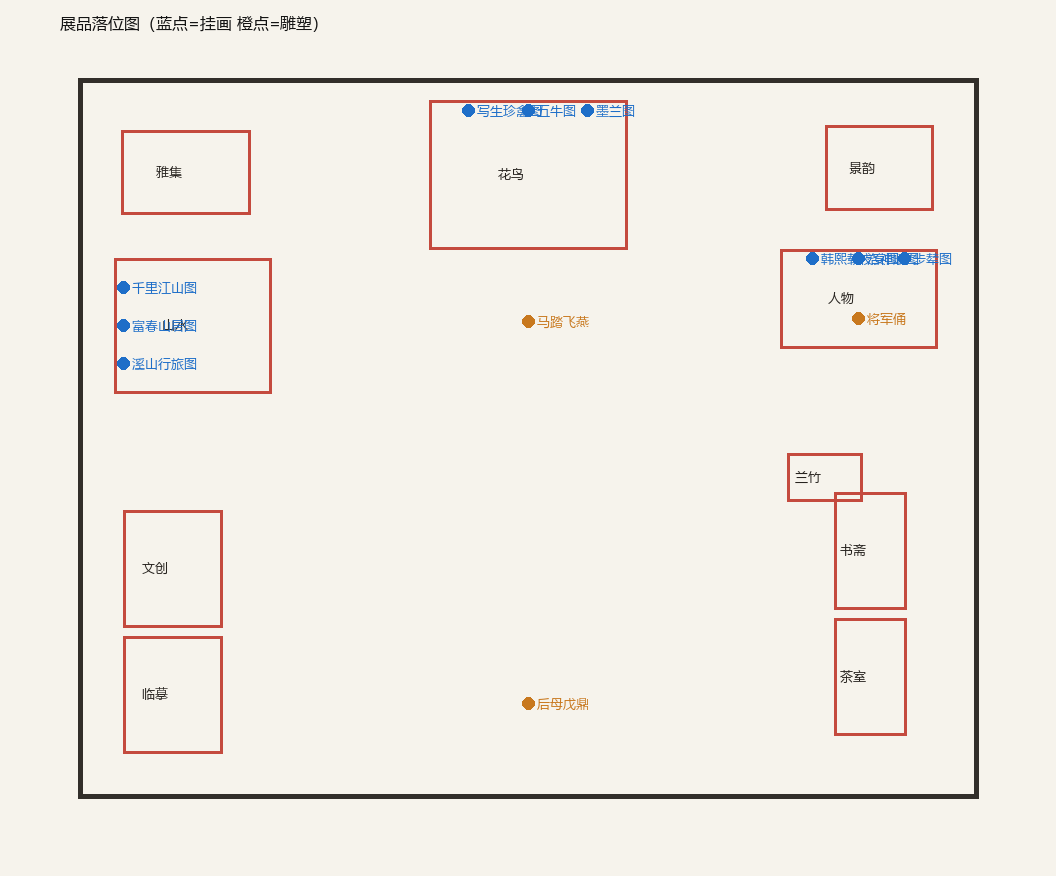
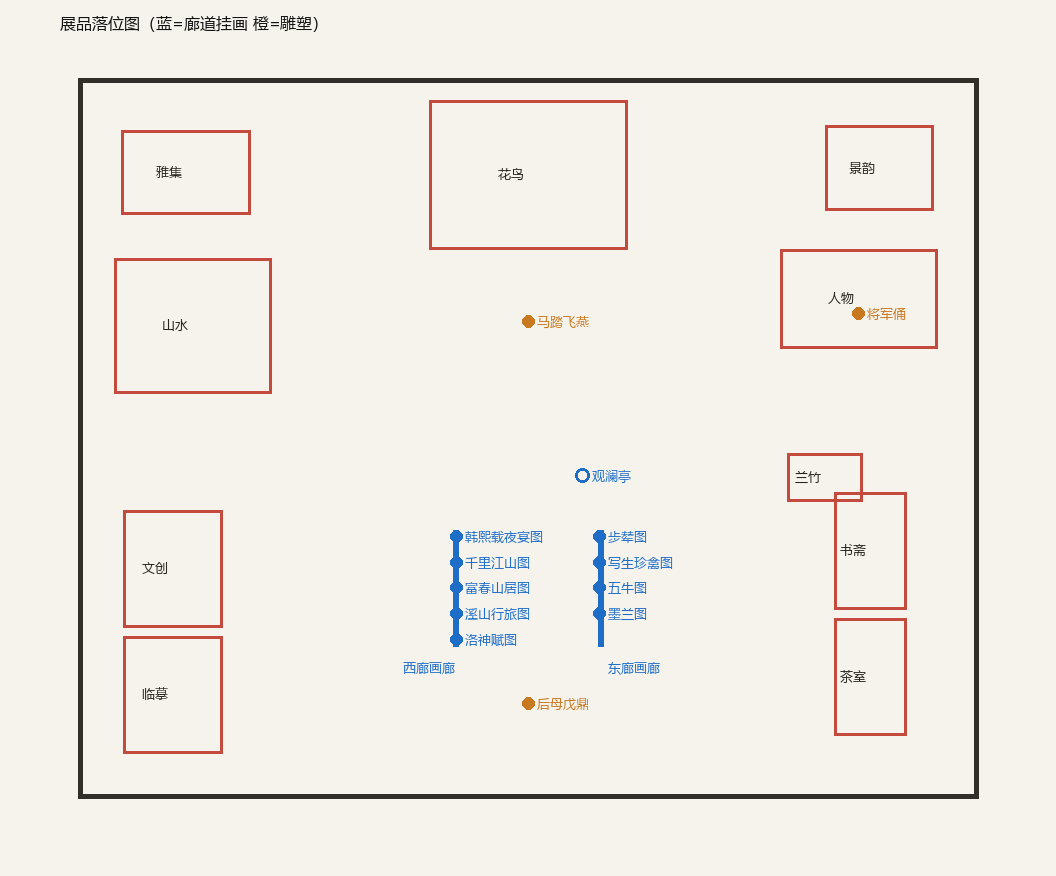
docs(exhibit): 展品落位表按「廊道画廊」重排（观澜亭旁两条连廊）
用户确认：观澜亭旁边的两条连廊就是放展品的地方。核对原型后确认：
- 西廊画廊墙 x=-8.1（faceDir=1，面朝东）、东廊画廊墙 x=+8.1（faceDir=-1，面朝西）
- 每道墙 5 个开间，立轴位 z = 10.93 / 13.79 / 16.65 / 19.51 / 22.37
- 另有观澜亭背壁放大立轴 (6.62, 4.2)（k=1.15）
=> 合计 11 个挂画位

排布：山水 3 幅→西廊居中三间；花鸟 3 幅→东廊居中三间；
人物 3 幅→西廊两端两间 + 东廊南端一间；东廊剩 1 间留空。
雕塑 3 件：后母戊鼎→序厅 (0,29.5)、将军俑→人物厅 (36.75,-13.8)、马踏飞燕→中心庭 (0,-13)。

关键：原型已在这些位置画好程序化立轴 + 洗画灯，只需把贴图换成真画
（assets/images/ 里已有 PR #7 入库的 9 张真画）。

diff --git a/docs/展品落位表.md b/docs/展品落位表.md
@@ -1,32 +1,41 @@
-# 展品 · 新布局落位表（给组员1 登记热点 / 给组员4 校对）
+# 展品 · 新布局落位表（按「廊道画廊」重排）
 
-> 布局来源：外观原型（`js/exterior-layout.js`）；展品清单来源：`js/config.js`
-> 落位规则：展品挂在各院落**正房的背墙内侧**（背墙=远离入口的那面墙），雕塑落在正房/庭院中心。
-> 坐标系：1 单位 = 1 米；x 向东为正，z 向南为正。
+> 依据用户确认：**观澜亭旁边那两条连廊就是放展品的**（原型的 `galleryWall(-8.1,1)` / `galleryWall(8.1,-1)`）。
+> 原型已在这两道半壁墙上留好挂画位：每道 **5 个开间**，`z = 10.93 / 13.79 / 16.65 / 19.51 / 22.37`；
+> 外加观澜亭背壁一幅放大立轴 `(6.62, 4.2)`。合计 **11 个挂画位**。
 
-| 展品 id | 名称 | 类型 | 所属展厅 | 建议坐标 (x, y, z) | 朝向 ry | 说明 |
-|---|---|---|---|---|---|---|
-| `qianlijiangshan` | 千里江山图 | 挂画 | 山水(hall1) | -44.92, 1.9, -16.77 | 1.5708 | 挂画（贴背墙） |
-| `fuchunshanjv` | 富春山居图 | 挂画 | 山水(hall1) | -44.92, 1.9, -12.5 | 1.5708 | 挂画（贴背墙） |
-| `xishanxinglvtu` | 溪山行旅图 | 挂画 | 山水(hall1) | -44.92, 1.9, -8.23 | 1.5708 | 挂画（贴背墙） |
-| `xieshengzhenqintu` | 写生珍禽图 | 挂画 | 花鸟(hall2) | -6.6, 1.9, -36.42 | 3.1416 | 挂画（贴背墙） |
-| `wuniutu` | 五牛图 | 挂画 | 花鸟(hall2) | 0.0, 1.9, -36.42 | 3.1416 | 挂画（贴背墙） |
-| `molantu` | 墨兰图 | 挂画 | 花鸟(hall2) | 6.6, 1.9, -36.42 | 3.1416 | 挂画（贴背墙） |
-| `hanxizai` | 韩熙载夜宴图 | 挂画 | 人物(hall3) | 31.65, 1.9, -19.92 | 3.1416 | 挂画（贴背墙） |
-| `luoshenfu` | 洛神赋图 | 挂画 | 人物(hall3) | 36.75, 1.9, -19.92 | 3.1416 | 挂画（贴背墙） |
-| `buniantu` | 步辇图 | 挂画 | 人物(hall3) | 41.85, 1.9, -19.92 | 3.1416 | 挂画（贴背墙） |
-| `jiangjunyong` | 将军俑 | 雕塑 | 人物(hall3) | 36.75, 0, -13.3 | 0 | 落台座 |
-| `houmuwuding` | 后母戊鼎 | 雕塑 | 序厅(hall0) | 0, 0, 29.5 | 0 | 落台座 |
-| `matayafeiyan` | 马踏飞燕 | 雕塑 | 庭院(courtyard) | 0, 0, -13 | 0.6 | 庭院点景 |
+## 挂画（9 幅 → 廊道画廊）
 
-## 热点登记参数（组员1 用）
+| 展品 id | 名称 | 所属厅 | 位置 | 坐标 (x, y, z) | 朝向 ry |
+|---|---|---|---|---|---|
+| `qianlijiangshan` | 千里江山图 | hall1 | 西廊 z=13.79 | -7.96, 1.5, 13.79 | 1.5708 |
+| `fuchunshanjv` | 富春山居图 | hall1 | 西廊 z=16.65 | -7.96, 1.5, 16.65 | 1.5708 |
+| `xishanxinglvtu` | 溪山行旅图 | hall1 | 西廊 z=19.51 | -7.96, 1.5, 19.51 | 1.5708 |
+| `hanxizai` | 韩熙载夜宴图 | hall3 | 西廊 z=10.93 | -7.96, 1.5, 10.93 | 1.5708 |
+| `luoshenfu` | 洛神赋图 | hall3 | 西廊 z=22.37 | -7.96, 1.5, 22.37 | 1.5708 |
+| `xieshengzhenqintu` | 写生珍禽图 | hall2 | 东廊 z=13.79 | 7.96, 1.5, 13.79 | -1.5708 |
+| `wuniutu` | 五牛图 | hall2 | 东廊 z=16.65 | 7.96, 1.5, 16.65 | -1.5708 |
+| `molantu` | 墨兰图 | hall2 | 东廊 z=19.51 | 7.96, 1.5, 19.51 | -1.5708 |
+| `buniantu` | 步辇图 | hall3 | 东廊 z=10.93 | 7.96, 1.5, 10.93 | -1.5708 |
+| `(空)` | 预留展位 | - | 东廊 z=22.37 | 7.96, 1.5, 22.37 | -1.5708 |
+| `(观澜亭)` | 观澜亭背壁大立轴 | courtyard | 观澜亭 z=4.2 | 6.62, 1.5, 4.2 | -1.5708 |
 
-- 挂画：`registerSpot({ exhibitId, x, y: 1.9, z, radius: 2.6 })`（y 用视点高度附近，radius 2.6 米是旧实现的取值）
+## 雕塑（3 件 → 厅内 / 庭院）
+
+| 展品 id | 名称 | 位置 | 坐标 (x, y, z) | 说明 |
+|---|---|---|---|---|
+| `houmuwuding` | 后母戊鼎 | 序厅 | 0, 0, 29.5 | 序厅铜鼎（原型已有 slots.ding 落点） |
+| `jiangjunyong` | 将军俑 | 人物厅 | 36.75, 0, -13.8 | 人物厅正房中央偏南，落台座 |
+| `matayafeiyan` | 马踏飞燕 | 中心庭 | 0, 0, -13 | 中心庭广场点景 |
+
+## 热点登记参数（组员1）
+
+- 廊道挂画：`registerSpot({ exhibitId, x, y: 1.5, z, radius: 2.4 })`（廊宽 2.2m，站在廊里就能触发）
 - 雕塑：`registerSpot({ exhibitId, x, y: 1.2, z, radius: 2.8 })`
-- 落地坐标就是上表的 (x, z)；挂画的 y 固定 1.9。
+- 廊道是**两侧对称**的：西廊 x≈−7.96 面朝东、东廊 x≈+7.96 面朝西；玩家走中间过道两侧都能看
 
-## 注意
+## 说明
 
-- 上表是**按原型正房背墙算出来的建议值**，组员1 到现场走一遍，觉得太靠边/太挤可以微调 ±0.5m。
-- `hall4 书斋` 与 `hall5 文创` 目前 `config.js` 里**没有展品**（12 件只覆盖 hall0/1/2/3/courtyard），要不要补由组长定。
-- 3 号展厅（人物）有 4 件：三幅挂画 + 一尊将军俑，俑放在正房中央偏南。
+- 原型的画廊墙上已经挂好了**程序化生成的立轴**（`hangingScroll`，通用水墨贴图）——我们只要把贴图换成真画即可；
+  `assets/images/` 里已经有 PR #7 入库的 9 张真画（每张 100~205KB）。
+- 东廊还剩 1 个开间、观澜亭还有 1 个放大立轴位，留着以后补展品。
